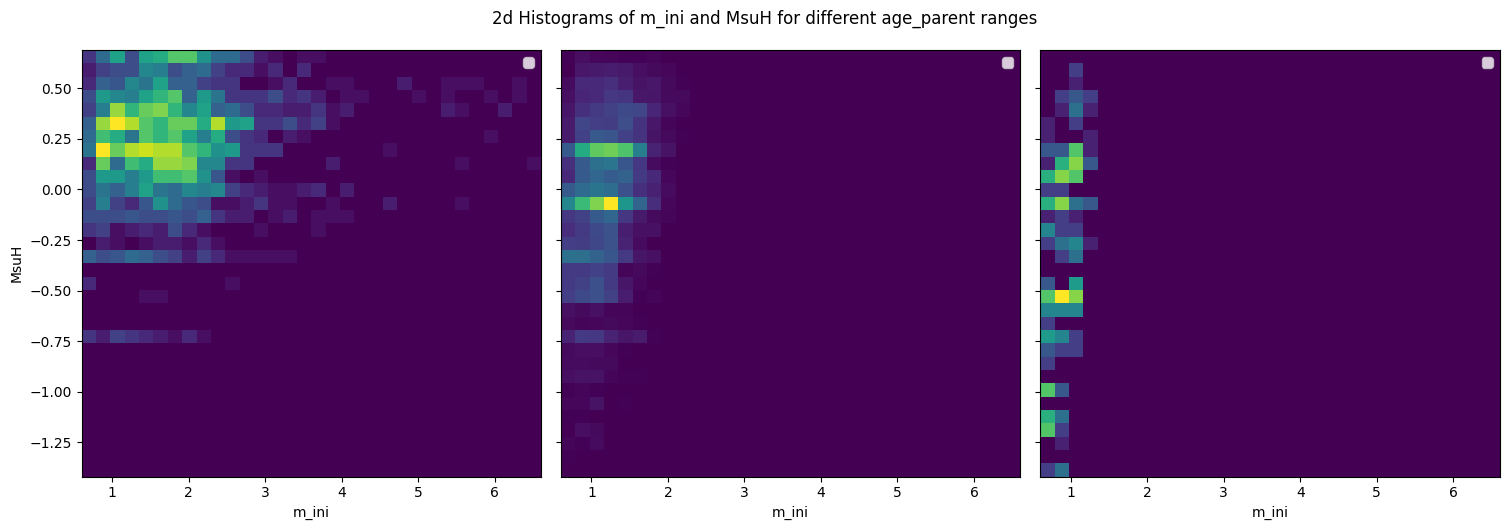
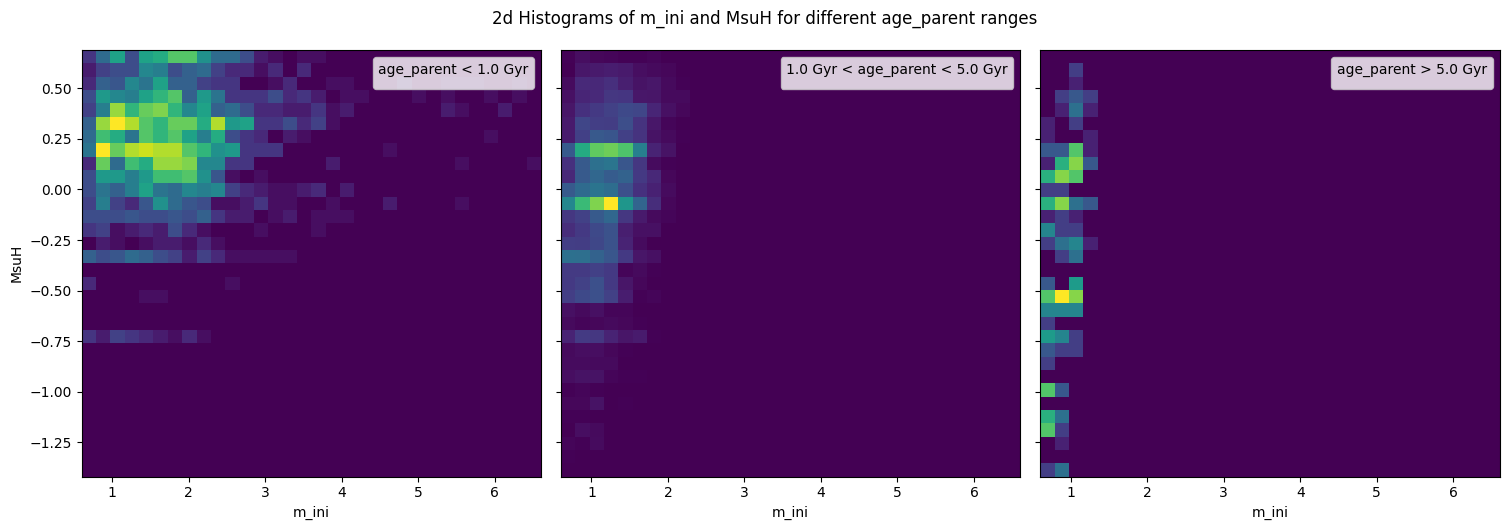
Final commit

Changed region(s): [[0.4983, 0.0906, 0.6852, 0.1811], [0.8721, 0.0906, 0.9967, 0.1811], [0.2492, 0.0906, 0.3738, 0.1811]]

diff --git a/Files/script.py b/Files/script.py
@@ -209,19 +209,19 @@ def main():
 
     # Plot the first figure
     axes[0].hist2d(x[0],y[0], **kwargs)
-    axes[0].legend("age_parent < {:.1f} Gyr".format(n[0]))
+    axes[0].legend([],title="age_parent < {:.1f} Gyr".format(n[0]))
     axes[0].set_xlabel(r"m_ini")
 
     # Plot the middle figures
     for i in range(1, len(n)):
         axes[i].set_xlim(0,6)
         axes[i].hist2d(x[i],y[i], **kwargs)
-        axes[i].legend("{:.1f} Gyr < age_parent < {:.1f} Gyr".format(n[i-1], n[i]))
+        axes[i].legend([],title="{:.1f} Gyr < age_parent < {:.1f} Gyr".format(n[i-1], n[i]))
         axes[i].set_xlabel(r"m_ini")
 
     # Plot the last figure
     axes[-1].hist2d(x[-1],y[-1], **kwargs)
-    axes[-1].legend("age_parent > {:.1f} Gyr".format(n[-1]))
+    axes[-1].legend([],title="age_parent > {:.1f} Gyr".format(n[-1]))
     axes[-1].set_xlabel(r"m_ini")
 
 
